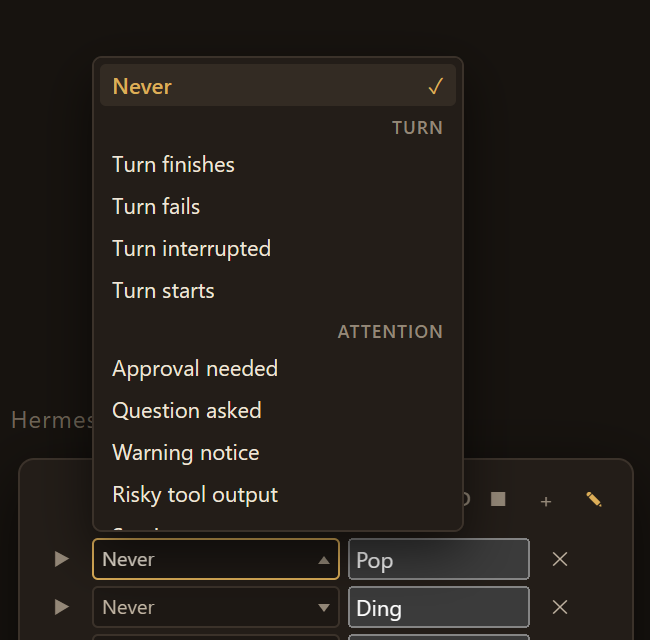
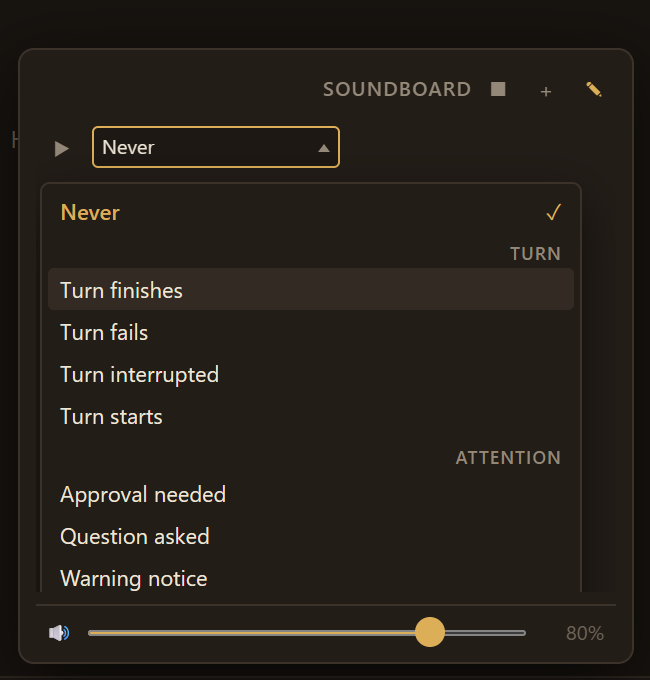
Fix the dead trigger list: fixed positioning was re-anchored by the popover
Report: 'The list is not working now at all' — the picker opened nothing.

The menu was position:fixed, which I chose to escape the manage list's
overflow-y:auto. It measured correctly in the test harness and rendered
off-screen in the app. Cause: PopoverContent carries backdrop-blur-md, and a
backdrop-filter makes an element the CONTAINING BLOCK for position:fixed
descendants. The menu anchored to the popover instead of the viewport, so it
was painted outside the window and the button looked inert.

The harness could not have caught it — the stub popover had no backdrop-filter,
so fixed positioning resolved against the viewport there and measured fine.
That gap is now closed: the stub mirrors the real popover's backdrop-filter, and
two new assertions check the menu is inside the panel box and at least 200px
wide. Both were verified to fire against a deliberately reverted build.

The menu is now IN FLOW: the row is flex-wrap:wrap, the wrapper is
display:contents so the picker and menu are direct row children, and the menu is
flex:0 0 100% so it wraps onto its own full-width line. Nothing positioned —
nothing to clip, nothing to re-anchor. 271px wide instead of 124.

Also fixes the group headers never being visible: they were rendered (18px tall)
but the menu was confined to the picker's 124x22 box.

diff --git a/plugin.js b/plugin.js
@@ -794,7 +794,7 @@ const CSS = `
 .hermes-sb-add:disabled{opacity:.5;cursor:default}
 .hermes-sb-empty{padding:18px 8px;text-align:center;font-size:11px;line-height:16px;color:var(--ui-text-tertiary)}
 .hermes-sb-list{display:flex;flex-direction:column;gap:2px;max-height:min(42vh,268px);overflow-y:auto;overscroll-behavior:contain;padding:2px;scrollbar-gutter:stable}
-.hermes-sb-row{display:flex;align-items:center;gap:4px}
+.hermes-sb-row{display:flex;align-items:center;gap:4px;flex-wrap:wrap}
 .hermes-sb-row .hermes-sb-row-name{flex:1;min-width:0;font-size:11px}
 /* The trigger picker is a button + an in-DOM menu, NOT a native <select>.
    A native option list is a browser-drawn popup coloured from the page's
@@ -802,8 +802,12 @@ const CSS = `
    under cream text (~1.1:1) and no page CSS could reach it. Owning the list
    means owning its background — the menu paints on --ui-bg-elevated with
    primary text, and the panel's own popover is opaque enough to sit behind it. */
-.hermes-sb-when{flex:0 0 124px;min-width:0;display:flex;align-items:center;height:22px;position:relative}
-.hermes-sb-picker{width:100%;height:21px;box-sizing:border-box;margin:0;display:flex;align-items:center;gap:2px;
+/* The wrapper DISSOLVES (display: contents) so the picker and the menu become
+   direct children of the row's flex layout. Without it the wrapper is a
+   124x22 box and the menu, however wide it is told to be, can only render
+   inside that box — which is why it came out 124px wide and unreadable. */
+.hermes-sb-when{display:contents}
+.hermes-sb-picker{flex:0 0 124px;width:124px;height:21px;box-sizing:border-box;margin:0;display:flex;align-items:center;gap:2px;
   padding:0 4px;border-radius:3px;text-align:left;
   font-size:10px;line-height:13px;color:var(--ui-text-secondary);
   background-color:var(--ui-bg-tertiary);border:1px solid var(--ui-stroke-secondary);outline:none}
@@ -817,14 +821,16 @@ const CSS = `
 .hermes-sb-picker[data-open=true] .hermes-sb-picker-caret{transform:rotate(180deg)}
 /* Opaque, themed, and layered above the row it belongs to. max-height keeps a
    14-row grouped list inside a popover that is already near the viewport top. */
-.hermes-sb-menu{position:fixed;z-index:20;width:186px;
+/* The menu is a normal flex item that wraps onto its own line: the row is
+   flex-wrap: wrap and this is flex: 0 0 100%. Deliberately NOT positioned —
+   absolute got clipped by the manage list's scroll container, and fixed
+   re-anchored to the popover (whose backdrop-filter makes it the containing
+   block), which is why the picker looked dead in the app while passing tests. */
+.hermes-sb-menu{flex:0 0 100%;width:100%;margin-top:2px;
   max-height:238px;overflow-y:auto;overscroll-behavior:contain;scrollbar-width:thin;
   padding:3px;border-radius:5px;
   background-color:var(--ui-bg-elevated);border:1px solid var(--ui-stroke-secondary);
   box-shadow:0 10px 26px rgba(0,0,0,.55)}
-/* Fixed positioning to escape the manage list's own scroll container; the
-   upward variant is anchored by its bottom edge, 2px above the trigger. */
-.hermes-sb-menu[data-drop=up]{transform:translateY(-100%)}
 .hermes-sb-menu-group{display:flex;flex-direction:column}
 .hermes-sb-menu-heading{padding:5px 6px 2px;font-size:9px;line-height:11px;font-weight:600;
   letter-spacing:.06em;text-transform:uppercase;color:var(--ui-text-tertiary);background-color:var(--ui-bg-elevated)}
@@ -895,7 +901,6 @@ function Pad({ sound, index, engine }) {
 function TriggerSelect({ sound, engine }) {
   const t = usePluginI18n(ID)
   const [open, setOpen] = useState(false)
-  const [pos, setPos] = useState(null)
   const [cursor, setCursor] = useState(-1)
   const boxRef = useRef(null)
   const current = sound.trigger ? TRIGGER_BY_ID.get(sound.trigger) : null
@@ -907,35 +912,11 @@ function TriggerSelect({ sound, engine }) {
   useEffect(() => {
     if (!open) return
     const onDown = event => {
-      if (!boxRef.current?.contains(event.target) && !event.target.closest?.('.hermes-sb-menu')) setOpen(false)
+      if (!boxRef.current?.contains(event.target)) setOpen(false)
     }
-    const onScroll = () => setOpen(false)
     document.addEventListener('mousedown', onDown)
-    window.addEventListener('resize', onScroll)
-    return () => {
-      document.removeEventListener('mousedown', onDown)
-      window.removeEventListener('resize', onScroll)
-    }
+    return () => document.removeEventListener('mousedown', onDown)
   }, [open])
-
-  const toggle = () => {
-    haptic('tap')
-    if (open) {
-      setOpen(false)
-      return
-    }
-    const rect = boxRef.current?.getBoundingClientRect()
-    if (!rect) return
-    // `position: fixed` so the manage list's own `overflow-y: auto` cannot clip
-    // the menu, and the coordinates are viewport-relative because of it.
-    // Above the trigger when there is not enough room beneath (the panel sits
-    // just above the status bar, so its lower rows have almost none).
-    const below = window.innerHeight - rect.bottom
-    const up = below < 250 && rect.top > below
-    setPos({ left: Math.round(rect.left), top: Math.round(up ? rect.top - 2 : rect.bottom + 2), up })
-    setCursor(Math.max(0, flat.findIndex(row => row.id === (sound.trigger ?? ''))))
-    setOpen(true)
-  }
 
   const pick = id => {
     engine.bind(sound.id, id)
@@ -953,7 +934,8 @@ function TriggerSelect({ sound, engine }) {
       if (event.key === 'Enter' || event.key === ' ') {
         event.preventDefault()
         event.stopPropagation()
-        toggle()
+        setOpen(true)
+        setCursor(Math.max(0, flat.findIndex(row => row.id === (sound.trigger ?? ''))))
       }
       return
     }
@@ -973,6 +955,16 @@ function TriggerSelect({ sound, engine }) {
 
   let rowIndex = -1
 
+  // THE LIST IS IN FLOW, not positioned. Two separate attempts to float it
+  // failed against the real app while passing every test:
+  //   - `position: absolute` was clipped by the manage list's `overflow-y:auto`;
+  //   - `position: fixed` anchored to the POPOVER, not the viewport, because
+  //     PopoverContent carries `backdrop-blur-md` and a backdrop-filter makes an
+  //     element the containing block for fixed children — the menu then landed
+  //     far off-screen and the picker appeared dead.
+  // A wrapper with `display: contents` dissolves into the row's flex layout, so
+  // the picker sits in its cell and the menu — `flex: 0 0 100%` — wraps onto its
+  // own full-width line beneath. Nothing to clip, nothing to re-anchor.
   return jsxs('div', {
     ref: boxRef,
     className: 'hermes-sb-when',
@@ -987,18 +979,19 @@ function TriggerSelect({ sound, engine }) {
         'aria-expanded': open,
         'aria-label': `${t('when')}: ${sound.name}`,
         title: current ? current.detail : t('whenNever'),
-        onClick: toggle,
+        onClick: () => {
+          haptic('tap')
+          setOpen(value => !value)
+        },
         children: [
           jsx('span', { className: 'hermes-sb-picker-label', children: current ? current.label : t('whenNever') }),
           jsx('span', { className: 'hermes-sb-picker-caret', 'aria-hidden': true })
         ]
       }),
 
-      open && pos
+      open
         ? jsx('div', {
             className: 'hermes-sb-menu',
-            'data-drop': pos.up ? 'up' : 'down',
-            style: { left: pos.left, top: pos.top },
             role: 'listbox',
             'aria-label': t('when'),
             children: [

diff --git a/README.md b/README.md
@@ -92,10 +92,26 @@ full set is the generated `GATEWAY_EVENT_TYPES` in
 near-white sheet under this theme's cream text — roughly 1.1:1, unreadable. A
 native option list is not a DOM node: the browser draws it from the page's
 `color-scheme`, so no page CSS can restyle it. The picker is now a button plus
-an in-DOM list, which means every pixel of the menu is ours, it inherits the
-theme, it escapes the manage list's scroll container (`position: fixed`), and it
-can be measured and screenshotted by the test suite — the menu asserts at
-**8.12:1** for its rows and **4.80:1** for group headers.
+an in-DOM list, so every pixel of the menu is ours and it inherits the theme.
+Rows assert at **8.12:1** and group headers at **4.80:1**.
+
+**Why the menu is in flow, not positioned.** Three attempts, three failures, and
+the last two were only visible in the real app:
+
+| Approach | What happened |
+|---|---|
+| `position: absolute` | Clipped by the manage list's `overflow-y: auto` |
+| `position: fixed` | Anchored to the *popover*, not the viewport — `PopoverContent` carries `backdrop-blur-md`, and a backdrop-filter makes that element the containing block for fixed descendants. The menu rendered far off-screen; the picker looked dead |
+| in flow (`flex: 0 0 100%` on a wrapping row) | Correct |
+
+The wrapper carries `display: contents` so the picker and menu become direct
+children of the row's flex layout; the menu then wraps onto its own full-width
+line beneath the row. Nothing to clip, nothing to re-anchor.
+
+That lesson is now enforced by the harness: the stub popover mirrors the real
+one's `backdrop-filter`, and the suite asserts the menu is inside the panel box
+and at least 200px wide. Both assertions were verified to fail on a
+deliberately reverted build.
 
 **On autoplay.** A triggered sound plays while the window may be unfocused, so
 the WebAudio context can be suspended by the browser's autoplay policy. Every
